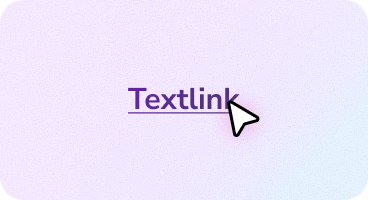
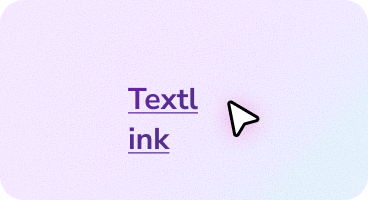
Merge pull request #3058 from leboncoin/stable-menu
docs(components): components glossary sections

Pull request: docs(components): components glossary sections
### Description, Motivation and Context

- Grouped components by types on glossary page
- Added dark mode thumbnails

Note: I am missing some assets that I will add in a future PR for some components (thumbnails).

### Types of changes
- [ ] 🛠️ Tool
- [ ] 🪲 Bug fix (non-breaking change which fixes an issue)
- [ ] ✨ New feature (non-breaking change which adds functionality)
- [ ] 💥 Breaking change (fix or feature that would cause existing functionality to not work as expected)
- [x] 🧾 Documentation
- [ ] 📷 Demo
- [ ] 🧪 Test
- [ ] 🧠 Refactor
- [ ] 💄 Styles


### Screenshots - Animations

<img width="1072" height="778" alt="Capture d’écran 2026-06-01 à 16 35 16" src="https://github.com/user-attachments/assets/52e4e861-2105-4b65-ba56-ce957db8edc9" />

Changed region(s): [[0.3288, 0.63, 0.4783, 0.78], [0.538, 0.42, 0.6576, 0.57]]

diff --git a/.storybook/preview.tsx b/.storybook/preview.tsx
@@ -66,7 +66,7 @@ const ExampleContainer = ({ children, ...props }: Props) => {
     setShouldDisplayDeprecatedBanner(primaryStoryTitle?.startsWith('Deprecated') || false)
   }, [props.context?.channel])
 
-  // Setup ScrollTrigger animations for canvas previews
+
   useEffect(() => {
     // Wait for canvas elements to be fully rendered and positioned
     const setupAnimations = () => {

diff --git a/packages/components/src/menu/Menu.stories.tsx b/packages/components/src/menu/Menu.stories.tsx
@@ -20,7 +20,7 @@ import { MenuSubmenuTrigger } from './MenuSubmenuTrigger'
 import { MenuTrigger } from './MenuTrigger'
 
 const meta: Meta<typeof Menu> = {
-  title: 'Experimental/Menu',
+  title: 'Components/Menu',
   component: Menu,
   subcomponents: {
     'Menu.Trigger': MenuTrigger,